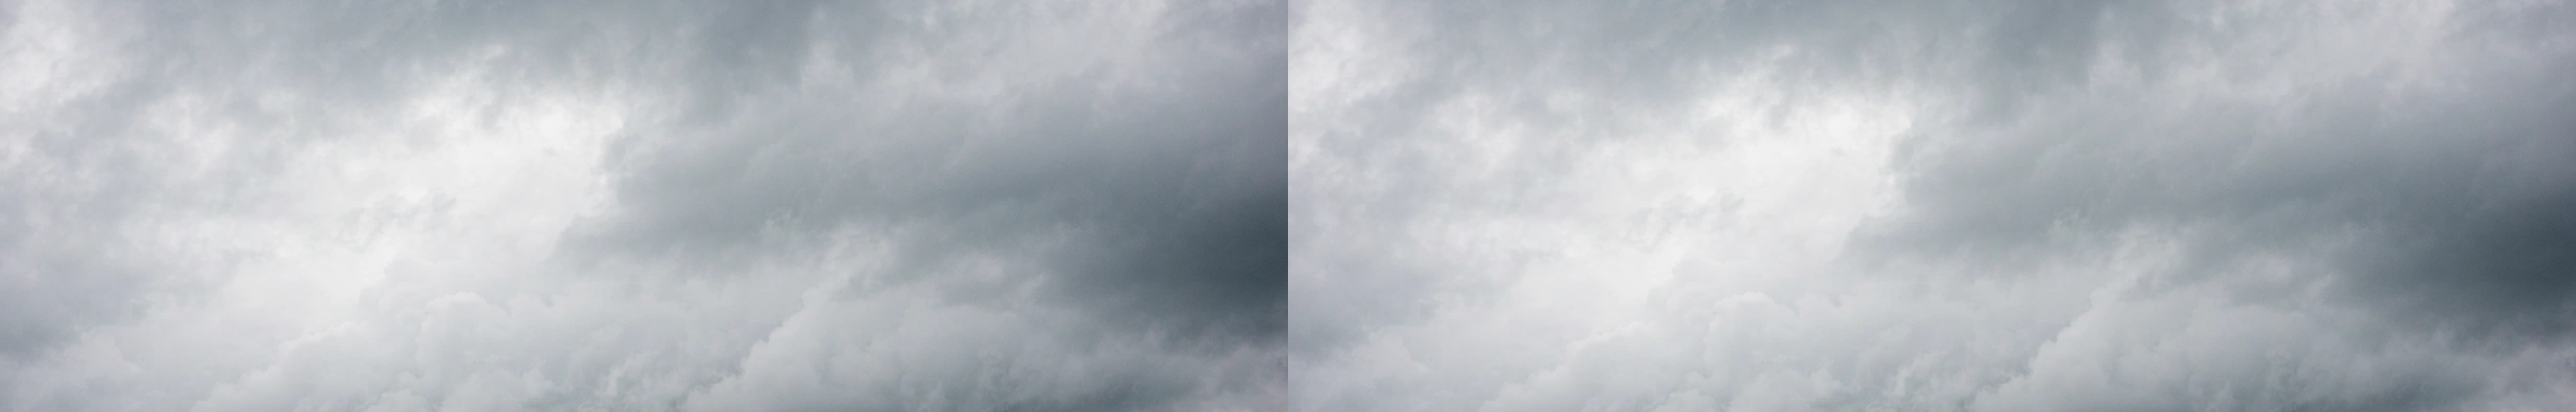
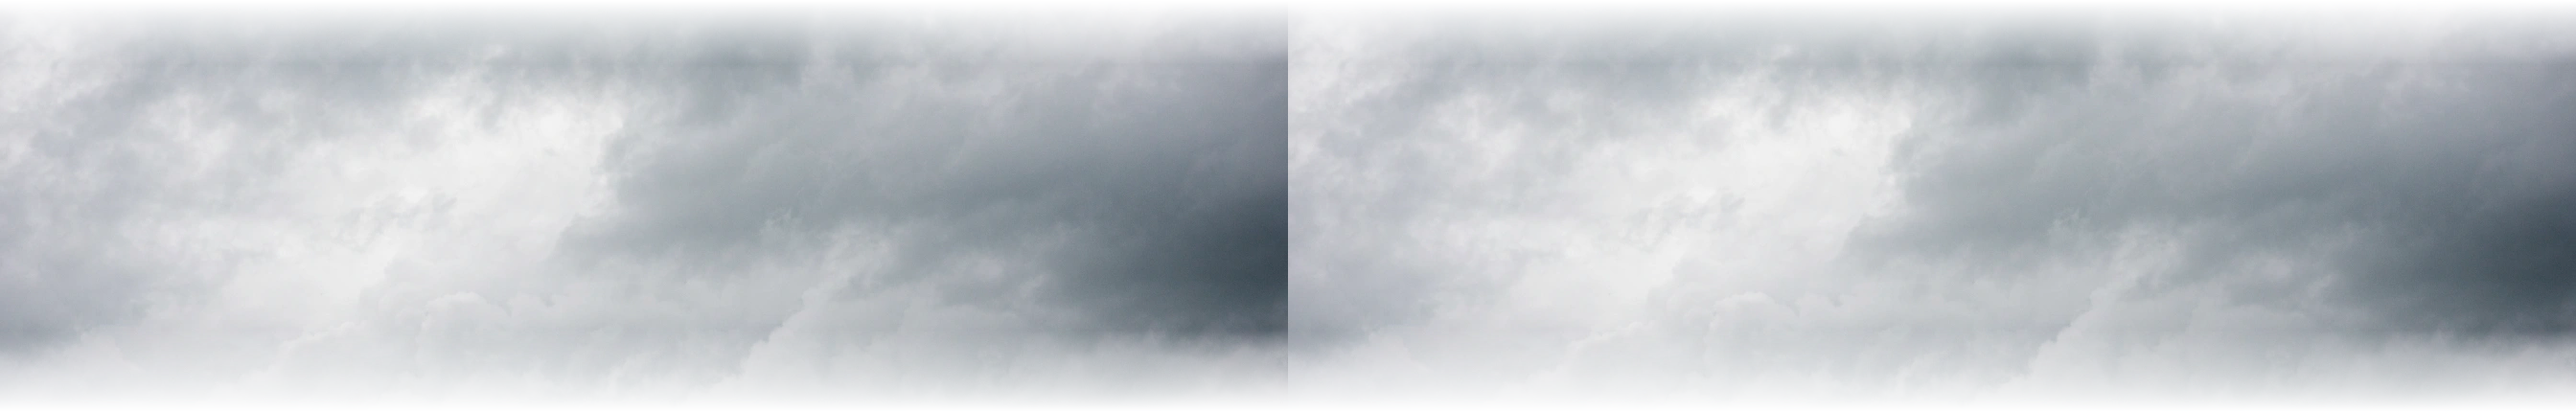
Day Arc: remove boxy edges/bottom line on weather — feather cloud image top/bottom (overcast no longer a grey box), fade rain/snow layer edges so no hard line where precip ends; cache-bust

Changed region(s): [[0.0, 0.8163, 1.0, 1.0], [0.0, 0.0, 1.0, 0.1209]]

diff --git a/dayarc.css b/dayarc.css
@@ -24,7 +24,7 @@
 @keyframes da-clouddrift{from{background-position-x:0}to{background-position-x:-520px}}
 #day-arc .da-clouds-layer.drift{animation:da-clouddrift 60s linear infinite}
 #day-arc .da-mtn{inset:0;background-repeat:no-repeat;background-position:center bottom;background-size:cover}
-#day-arc .da-rain-layer,#day-arc .da-snow-layer{inset:0;background-repeat:repeat;mix-blend-mode:screen;opacity:0;transition:opacity .5s ease;pointer-events:none}
+#day-arc .da-rain-layer,#day-arc .da-snow-layer{inset:0;background-repeat:repeat;mix-blend-mode:screen;opacity:0;transition:opacity .5s ease;pointer-events:none;-webkit-mask-image:linear-gradient(to bottom,transparent,#000 8%,#000 78%,transparent);mask-image:linear-gradient(to bottom,transparent,#000 8%,#000 78%,transparent)}
 #day-arc .da-rain-layer{background-size:auto 300px}
 #day-arc .da-snow-layer{background-size:auto 520px}
 @keyframes da-rainfall{from{background-position:0 0}to{background-position:0 300px}}

diff --git a/index.html b/index.html
@@ -4550,7 +4550,7 @@ curtainInit();
   .header #day-arc.da-inheader .da-live{z-index:6}
 </style>
 <script>window.DAYARC_CONFIG={appendHost:'.header'};</script>
-<link rel="stylesheet" href="dayarc.css?v=20260626171500">
+<link rel="stylesheet" href="dayarc.css?v=20260626193000">
 <script src="dayarc.js?v=20260626190000"></script>
 <script>(function(){ function relocate(){ try{ var c=document.querySelector('.content'); if(!c) return;
   var eb=document.getElementById('app-eyebrow'); if(eb&&eb.parentElement!==c){ eb.classList.add('eyebrow-bottom'); c.appendChild(eb); }

diff --git a/sw.js b/sw.js
@@ -1,7 +1,7 @@
 // sw.js — network-first service worker.
 // Fixes "deploys don't show up": always fetches the latest from the network when
 // online, caches a copy for offline use, and falls back to cache only when offline.
-const CACHE = 'hg-cache-20260626190000';
+const CACHE = 'hg-cache-20260626193000';
 
 self.addEventListener('install', (e) => {
   // take over immediately, don't wait for old SW to release
